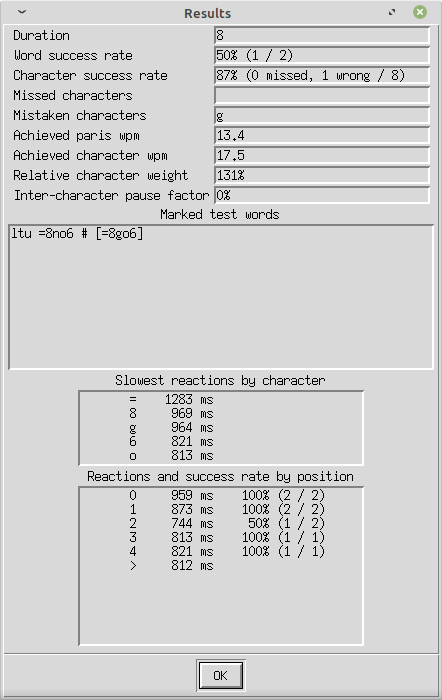
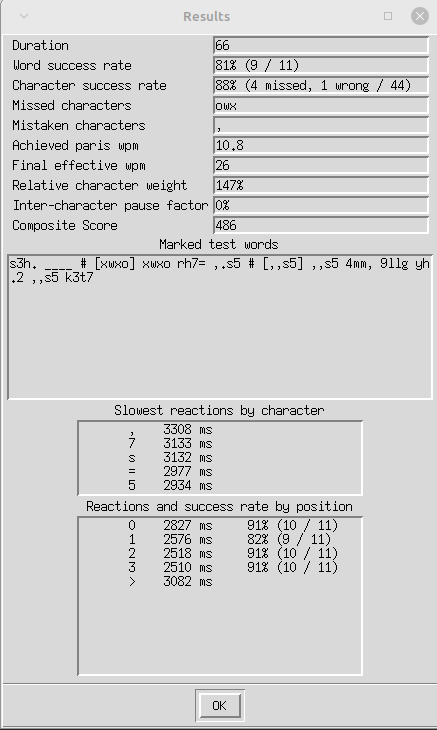
Update articles

Changed region(s): [[0.0, 0.0, 1.0, 1.0]]

diff --git a/content/articles_morsepractice.html b/content/articles_morsepractice.html
@@ -1,122 +1,123 @@
+<h1>Morse Practice Application</h1>
 
-	<h1>Morse Practice Application</h1>
+<p> This computer application has been created by Colin Berry (M0GXV) to help you to learn and improve your proficiency in receiving morse code (CW), by enabling you to create exercises to suit your level of expertise. This article explains how it works and how to profitably use it. </p>
 
-	<p> This computer application has been created by Colin Berry (M0GXV) to help you to learn and improve your proficiency in receiving morse code (CW), by enabling you to create exercises to suit your level of expertise. This article explains how it works and how to profitably use it. </p>
+<p> The program is written in perl, which natively runs on Linux and also works on Windows using a suitable implementation, such as "Strawberry Perl". The following perl modules are used, which may need to be installed:
 
-	<p> The program is written in perl, which natively runs on Linux and also works on Windows using a suitable implementation, such as "Strawberry Perl". The following perl modules are used, which may need to be installed:
+<ul>	<li>Tk</li>
+<li>Audio::Data</li>
+<li>Audio::Play</li>
+<li>Time::HiRes</li>
+<li>IO::Handle</li>
+</ul></p>
 
-	<ul>	<li>Tk</li>
-		<li>Audio::Data</li>
-		<li>Audio::Play</li>
-		<li>Time::HiRes</li>
-		<li>IO::Handle</li>
-	</ul></p>
+<p> The application can be downloaded from my <a href="https://github.com/BerryliumProjects/morsepractice.git" target="_blank">BerryliumProjects github repository</a>. If you are a git user, then feel free to amend the program however you want, and possibly even feed back improvements. Otherwise you can download a zip of the files (they are all in a single location) and unpack that locally.  Open the installation directory in a shell and type <pre>perl morsedlg.pl</pre> to run it. </p>
 
-	<p> The application can be downloaded from my <a href="https://github.com/BerryliumProjects/morsepractice.git" target="_blank">BerryliumProjects github repository</a>. If you are a git user, then feel free to amend the program however you want, and possibly even feed back improvements. Otherwise you can download a zip of the files (they are all in a single location) and unpack that locally.  Open the installation directory in a shell and type <pre>perl morsedlg.pl</pre> to run it. </p>
-
-	<p> There is a main dialog, in which you select audio parameters and select a type of exercise, separate dialogs for each exercise type, and a final results window with an analysis of how you performed, both in terms of accuracy and speed of response. In addition, the terminal shell from which perl is launched shows response time analysis detail, and is used in the "visual mental word building" exercise. The main dialog has a set of default settings which you can alter as required. These affect the type of exercise, what words or characters will be included, and how the audio is generated. </p>
+<p> There is a main dialog, in which you select audio parameters and select a type of exercise, separate dialogs for each exercise type, and a final results window with an analysis of how you performed, both in terms of accuracy and speed of response. In addition, the terminal shell from which perl is launched shows response time analysis detail, and is used in the "visual mental word building" exercise. The main dialog has a set of default settings which you can alter as required. These affect the type of exercise, what words or characters will be included, and how the audio is generated. </p>
 <table>
 <tr><td>
-	<h2>Main Dialog</h2>
-   <img src="articles_mp_main.png" class="insetpics" />
+<h2>Main Dialog</h2>
+<img src="articles_mp_main.png" class="insetpics" />
 
-   <p> The first screen you will see allows you to select a type of exercise, and to control how the sound of morse code is created. Various parameters can be set to provide a comfortable listening experience, at a speed to suit you. There are also a couple of features to make differentiating between dits and dahs easier as a beginner. </p>
+<p> The first screen you will see allows you to select a type of exercise, and to control how the sound of morse code is created. Various parameters can be set to provide a comfortable listening experience, at a speed to suit you. There are also a couple of features to make differentiating between dits and dahs easier as a beginner. </p>
 
-	<h3>Keying rate and weight</h3>
-	
-	<p><b>Character WPM</b> determines the fundamental pulse used to time the sounds and gaps between them within a character. This uses the 'PARIS' standard of 50 pulses per average word, including the standard gap following it. This results in a pulse time (length of a dit sound) of (1200 / WPM) milliseconds.</p>
+<h3>Keying rate and weight</h3>
 
-	<p>Note that this is always used irrespective of how words are constructed, even if a natural letter frequency distribution isn't being used. If you wish to use the alternative 'CODEX' timing standard designed for randomly selected letters (60 pulses per average word), increase the <b>Character WPM</b> and <b>Effective WPM</b> by a factor of 1.2.</p>
+<p><b>Character WPM</b> determines the fundamental pulse used to time the sounds and gaps between them within a character. This uses the 'PARIS' standard of 50 pulses per average word, including the standard gap following it. This results in a pulse time (length of a dit sound) of (1200 / WPM) milliseconds.</p>
 
-	<p><b>Dash weight</b> allows the dah sound to be adjusted to be longer or shorter than the standard 3 pulses. It can be fractional. A longer dah sound is easier to differentiate from a dit, and a slightly shorter sound can be used to practice receiving morse sent from a straight-key, where the element lengths can be quite variable and not to the standard timings created by a paddle and keyer.  Alternatively, a longer dah sound mimics how many semi-automatic bug keys often sound. Note that this adjustment will alter the effective communications speed.</p>
-	
-	<h3>Farnsworth and word spacing</h3>
-	
-	<p>When learning to copy at slower speeds, it is recommended to keep the sound of the characters short enough to be recognised as a whole pattern, rather than having to be mentally assembled from dits and dahs. This is achieved by reducing the <b>Effective WPM</b> to below the <b>Character WPM</b>, which increasing the gaps between characters and words. Start out with a <b>Character WPM</b> between 15 and 20, then gradually increase the <b>Effective WPM</b> up to the same speed. </p>
+<p>Note that this is always used irrespective of how words are constructed, even if a natural letter frequency distribution isn't being used. If you wish to use the alternative 'CODEX' timing standard designed for randomly selected letters (60 pulses per average word), increase the <b>Character WPM</b> and <b>Effective WPM</b> by a factor of 1.2.</p>
 
-	<p>The thinking time between characters reduces noticeably as the two speeds converge. Whilst you should aim to become comfortable with the speeds being equal (which results in standard rhythm), an alternative strategy is to increase the <b>Character WPM</b> further, which provides a slight increase in thinking time and trains the ear to recognise the patterns more instinctively.</p>
+<p><b>Dash weight</b> allows the dah sound to be adjusted to be longer or shorter than the standard 3 pulses. It can be fractional. A longer dah sound is easier to differentiate from a dit, and a slightly shorter sound can be used to practice receiving morse sent from a straight-key, where the element lengths can be quite variable and not to the standard timings created by a paddle and keyer.  Alternatively, a longer dah sound mimics how many semi-automatic bug keys often sound. Note that this adjustment will alter the effective communications speed.</p>
 
-	<p>When training without the <b>Sync after each word</b> mode, it can be useful to increase the gap between words for more thinking or typing time, while maintaining proper gaps between characters. Standard timing uses the equivalent of a silent dah or two dits between words, in addition to the inter-character gap. To increase this, specify a positive whole number in <b>Extra word spaces</b>. This adds further silent dahs (4 pulses each). </p>
+<h3>Farnsworth and word spacing</h3>
 
-	<h3>Pitch and volume</h3>
+<p>When learning to copy at slower speeds, it is recommended to keep the sound of the characters short enough to be recognised as a whole pattern, rather than having to be mentally assembled from dits and dahs. This is achieved by reducing the <b>Effective WPM</b> to below the <b>Character WPM</b>, which increasing the gaps between characters and words. Start out with a <b>Character WPM</b> between 15 and 20, then gradually increase the <b>Effective WPM</b> up to the same speed. </p>
 
-	<p>By default, a pitch of 600 Hz is used, but this can be adjusted, perhaps to match your preferred sidetone setting on a transceiver, using <b>Note pitch</b> in Hz. Listening at lower pitches can also help differentiate between closely spaced signals on-air, although very fast code may need a higher pitch. </p>
-	
-	<p> If you initially find it difficult to differentiate between dits and dahs, it is possible to make them sound at slightly different pitches. A positive number in <b>Dash-dot pitch shift</b> will cause dits to sound that number of semitones higher in pitch than dahs, keeping the average pitch the same. Try to eliminate this shift as soon as you can, so you don't become dependent on it. As the speed increases, the shifts can sound quite wild and distracting. </p>
+<p>The thinking time between characters reduces noticeably as the two speeds converge. Whilst you should aim to become comfortable with the speeds being equal (which results in standard rhythm), an alternative strategy is to increase the <b>Character WPM</b> further, which provides a slight increase in thinking time and trains the ear to recognise the patterns more instinctively.</p>
 
-	<p> The volume of note emitted can also be adjusted. <b>Tone volume attenuation</b> reduces the volume by that number of decibels. It is recommended to increase this number until the note is quiet while remaining clearly audible. This discipline also helps to naturally reduce the perception of background noise when listening on-air. If you do this, note that shorter pulse times need more volume to be perceived accurately. </p>
+<p>When training without the <b>Sync after each word</b> mode, it can be useful to increase the gap between words for more thinking or typing time, while maintaining proper gaps between characters. Standard timing uses the equivalent of a silent dah or two dits between words, in addition to the inter-character gap. To increase this, specify a positive whole number in <b>Extra word spaces</b>. This adds further silent dahs (4 pulses each). </p>
 
-  	<p> Having selected the desired audio parameters, click <b>Calibrate</b> to verify them. This will play "PARIS PARIS" at the selected pitch and WPM.</p>
+<h3>Pitch and volume</h3>
 
-   <p> If the program is being run in a virtual machine, it is possible that this could affect the rate of playing sound samples, resulting in the wrong pitch and WPM rates. To detect if this is occurring, try calibrating on a pitch of 440 Hz. If the A note pitch is incorrect (or less reliably, the time between the two words), you can enter a correction rate in <b>Playing rate factor</b>, which will also fix playing speed.</p>
+<p>By default, a pitch of 600 Hz is used, but this can be adjusted, perhaps to match your preferred sidetone setting on a transceiver, using <b>Note pitch</b> in Hz. Listening at lower pitches can also help differentiate between closely spaced signals on-air, although very fast code may need a higher pitch. </p>
+
+<p> If you initially find it difficult to differentiate between dits and dahs, it is possible to make them sound at slightly different pitches. A positive number in <b>Dash-dot pitch shift</b> will cause dits to sound that number of semitones higher in pitch than dahs, keeping the average pitch the same. Try to eliminate this shift as soon as you can, so you don't become dependent on it. As the speed increases, the shifts can sound quite wild and distracting. </p>
+
+<p> The volume of note emitted can also be adjusted. <b>Tone volume attenuation</b> reduces the volume by that number of decibels. It is recommended to increase this number until the note is quiet while remaining clearly audible. This discipline also helps to naturally reduce the perception of background noise when listening on-air. If you do this, note that shorter pulse times need more volume to be perceived accurately. </p>
+
+<p> Having selected the desired audio parameters, click <b>Calibrate</b> to verify them. This will play "PARIS PARIS" at the selected pitch and WPM.</p>
+
+<p> If the program is being run in a virtual machine, it is possible that this could affect the rate of playing sound samples, resulting in the wrong pitch and WPM rates. To detect if this is occurring, try calibrating on a pitch of 440 Hz. If the A note pitch is incorrect (or less reliably, the time between the two words), you can enter a correction rate in <b>Playing rate factor</b>, which will also fix playing speed.</p>
 
 </td></tr>
 <tr><td>
 
-	<h2>Types of exercise </h2>
-   <img src="articles_mp_exercise.png" class="insetpics" />
+<h2>Types of exercise </h2>
+<img src="articles_mp_exercise.png" class="insetpics" />
 
-	<p> Substituting artificial exercises for real-world CW copying carries the risk that the mind learns to be good at the exercise rather than the skill that it is intended to develop. For example, I found that listening and typing in what I heard, created a shortcut between my ears and my fingers which bypassed my consciousness - so didn't move me forward to my aim of improving head-copy.  So it's important to vary the types of exercises to avoid this.</p>
+<p> Substituting artificial exercises for real-world CW copying carries the risk that the mind learns to be good at the exercise rather than the skill that it is intended to develop. For example, I found that listening and typing in what I heard, created a shortcut between my ears and my fingers which bypassed my consciousness - so didn't move me forward to my aim of improving head-copy.  So it's important to vary the types of exercises to avoid this.</p>
 
-	<p> A computer generated exercise can also be just too "perfect", in the sense that doesn't reflect on-air listening, with noise, fading, distraction from other signals, variations in timing and of course human error. Computerised morse readers can also struggle in these conditions, yet it is possible with practice and experience for the human ear and mind to do better. To achieve this, it is also important to expose yourself to real on-air listening, both at a speed you can mostly understand and also in conditions where you struggle. This experience will inform what sort of exercises would be of benefit. </p>
+<p> A computer generated exercise can also be just too "perfect", in the sense that doesn't reflect on-air listening, with noise, fading, distraction from other signals, variations in timing and of course human error. Computerised morse readers can also struggle in these conditions, yet it is possible with practice and experience for the human ear and mind to do better. To achieve this, it is also important to expose yourself to real on-air listening, both at a speed you can mostly understand and also in conditions where you struggle. This experience will inform what sort of exercises would be of benefit. </p>
 
-   <p> Each type of exercise has options appropriate to it. These are explained later. </p>
+<p> Each type of exercise has options appropriate to it. These are explained later. </p>
 
-	<h3>Single characters</h3>
+<h3>Single characters</h3>
 
-	<p> This exercise can be used in several ways. If you have no knowledge of morse code at all, type some characters into the entry box and click <b>Play</b>. Listen to how they sound, separately and in combination. This is a great way to start to learn the code as sound patterns first rather than printed dashes and dots. </p>
+<p> This exercise can be used in several ways. If you have no knowledge of morse code at all, type some characters into the entry box and click <b>Play</b>. Listen to how they sound, separately and in combination. This is a great way to start to learn the code as sound patterns first rather than printed dashes and dots. </p>
 
-	<p> To systematically learn to use morse code, you could select some characters in the  <b>Characters to practise</b> list, having selected a low effective wpm in the audio dialog (the "Farnsworth method" of learning). If you want to learn following the classic "Koch method", you can get an introduction to the character set being used by entering a positive number in <b>Koch method level</b>, which can be used as a prelude to the random sequences exercise. </p> 
+<p> To systematically learn to use morse code, you could select some characters in the  <b>Characters to practise</b> list, having selected a low effective wpm in the audio dialog (the "Farnsworth method" of learning). If you want to learn following the classic "Koch method", you can get an introduction to the character set being used by entering a positive number in <b>Koch method level</b>, which can be used as a prelude to the random sequences exercise. </p> 
 
-   <p> If you enter a character incorrectly, it will repeat the same character one more time.</p>
+<p> If you enter a character incorrectly, it will repeat the same character one more time.</p>
 
-	<h3>Random sequences</h3>
+<h3>Random sequences</h3>
 
-   <p> This is similar to the Single Characters mode, but characters are grouped with proper spacing between them, with a pause at the end for you to type back what you heard. </p>
+<p> This is similar to the Single Characters mode, but characters are grouped with proper spacing between them, with a pause at the end for you to type back what you heard. </p>
 
-	<p> If you want characters to reflect their frequency in English, select <b>Use relative frequencies</b>. In Koch mode, this instead puts more emphasis on the most recently learned characters. You can see the effect of this in the <b>Extra character weights</b> field, which can also be adjusted directly. </p>
+<p> If you want characters to reflect their frequency in English, select <b>Use relative frequencies</b>. In Koch mode, this instead puts more emphasis on the most recently learned characters. You can see the effect of this in the <b>Extra character weights</b> field, which can also be adjusted directly. </p>
 
-	<p> Although you can type as soon as you recognise a character pattern, I recommend not starting to type until the end of the 2nd character, to give proper processing time and to practice hearing, thinking and typing concurrently rather than sequentially - you won't have time to do that beyond an unrealistically slow speed. </p>
+<p> Although you can type as soon as you recognise a character pattern, I recommend not starting to type until the end of the 2nd character, to give proper processing time and to practice hearing, thinking and typing concurrently rather than sequentially - you won't have time to do that beyond an unrealistically slow speed. </p>
 
-	<p> As well as random characters, other exercise types apply structure to the sequences, which helps with recognising and remembering patterns within words, enabling longer words to be mentally assembled. </p>
+<p> As well as random characters, other exercise types apply structure to the sequences, which helps with recognising and remembering patterns within words, enabling longer words to be mentally assembled. </p>
 
-	<h3>Phonemes</h3>
+<h3>Phonemes</h3>
 
-	<p> Each collection of vowel letters making up a valid vowel sound (for example 'ea'), and each combination of consonant letters making up a valid consonant or group (for example 'str') is referred to as a phoneme, an elementary component of speech. </p>
+<p> Each collection of vowel letters making up a valid vowel sound (for example 'ea'), and each combination of consonant letters making up a valid consonant or group (for example 'str') is referred to as a phoneme, an elementary component of speech. </p>
 
-	<p>The common phonemes can be recognised as sub-sequences within a word when copying morse code, and this makes mentally building up the word easier. This exercise practices them in isolation; the Pseudo Words exercise groups them.  </p>
+<p>The common phonemes can be recognised as sub-sequences within a word when copying morse code, and this makes mentally building up the word easier. This exercise practices them in isolation; the Pseudo Words exercise groups them.  </p>
 
-   <h3>Pseudo Words</h3>
+<h3>Pseudo Words</h3>
 
-	<p> English words are mostly composed by alternating vowel phonemes with consonant phonemes, for example sch-oo-l. When first moving from random character recognition to words, ideas with a recognisable meaning tend to distract from keeping up, as the mind wants to visualise the word's meaning. The excitement and sense of achievement at recognising a word can also make you lose flow.  As an aid to avoiding such distraction, it can be helpful to create sequences which follow the expected phoneme-alternation pattern, but which aren't meaningful words. This helps the mind to stop trying to look for meaning, as none is expected, yet the skill of phoneme recognition is still being developed. </p>
+<p> English words are mostly composed by alternating vowel phonemes with consonant phonemes, for example sch-oo-l. When first moving from random character recognition to words, ideas with a recognisable meaning tend to distract from keeping up, as the mind wants to visualise the word's meaning. The excitement and sense of achievement at recognising a word can also make you lose flow.  As an aid to avoiding such distraction, it can be helpful to create sequences which follow the expected phoneme-alternation pattern, but which aren't meaningful words. This helps the mind to stop trying to look for meaning, as none is expected, yet the skill of phoneme recognition is still being developed. </p>
 
-	<p> Pseudo-words can start with either a vowel or consonant element. Each element is categorised as to whether it can meaningfully appear at the beginning, middle or end of a word, to make the compositions seem more realistic.</p>
+<p> Pseudo-words can start with either a vowel or consonant element. Each element is categorised as to whether it can meaningfully appear at the beginning, middle or end of a word, to make the compositions seem more realistic.</p>
 
-	<p> Caution: artificially invented pseudo-words are not checked to ensure they are (or sound) meaningless. It is possible to get sequences which resemble dictionary words (even rude ones!), but this is simply due to randomness. The same coincidence can of course occur with purely random letter sequences, but the likelihood is much less. </p>
+<p> Caution: artificially invented pseudo-words are not checked to ensure they are (or sound) meaningless. It is possible to get sequences which resemble dictionary words (even rude ones!), but this is simply due to randomness. The same coincidence can of course occur with purely random letter sequences, but the likelihood is much less. </p>
 
-	<h3>Numbers</h3>
+<h3>Numbers</h3>
 
-   <p> This is similar to the random sequences exercise, but the group of characters relates to how numbers are represented. Note that it is common to use "R" to mean a decimal point (it sounds like an abbreviation of the longer full stop character). </p>
+<p> This is similar to the random sequences exercise, but the group of characters relates to how numbers are represented. Note that it is common to use "R" to mean a decimal point (it sounds like an abbreviation of the longer full stop character). </p>
 
-	<h3>Callsigns</h3>
+<h3>Callsigns</h3>
 
-	<p> A very useful skill is copying down callsigns. Their specific structure helps with memory, and also they are sent frequently so that they can be copied in stages (first 3 characters, then last 3 on the next repetition). </p>
+<p> A very useful skill is copying down callsigns. Their specific structure helps with memory, and also they are sent frequently so that they can be copied in stages (first 3 characters, then last 3 on the next repetition). </p>
 
-	<p> The simplest exercise does not include the '/' character and restricts the prefix to a list of common european ones. Options enable more complex possibilities. </p>
+<p> The simplest exercise does not include the '/' character and restricts the prefix to a list of common european ones. Options enable more complex possibilities. </p>
 
- 	<h3>Common words</h3>
-	
-	<p> This is an alternative to choosing words from the main dictionary.  The 100 most common English words, irrespective of length, are included (the longest is 7 characters - 'because'). You can also filter these using <b>Min word length</b> and <b>Max word length</b>. This exercise is good for helping develop natural rag-chew type interaction.</p>
+<h3>Common words</h3>
 
-	<p> Quite a few of these words have established abbreviations (such as fer, cud and es), which you can practice in the QSO terms exercise. </p>
+<p> This is an alternative to choosing words from the main dictionary.  The 100 most common English words, irrespective of length, are included (the longest is 7 characters - 'because'). You can also filter these using <b>Min word length</b> and <b>Max word length</b>. This exercise is good for helping develop natural rag-chew type interaction.</p>
 
-   <h3>Dictionary words</h3>
+<p> Quite a few of these words have established abbreviations (such as fer, cud and es), which you can practice in the QSO terms exercise. </p>
 
-	<p> This enables you to practice assembling real words with identifiable meanings. Over 4000 words are possible, but most of them are quite long and so more difficult to assemble. There are two approaches to make this exercise more achievable for a beginner. You can choose the minimum and maximum word lengths (defaults are 1 to 6); and you can also optionally restrict to studying the overall sound of a small selection of words of similar difficulty.</p>
+<h3>Dictionary words</h3>
 
-	<p> Both of these criteria are applied when selecting words. You can set the maximum length you are comfortable with - you will forget the first part of the word beyond a certain length, which you can practise to increase over time. You can also set the minimum length if you wish, but it is best to avoid setting it the same as the maximum - you will very quickly adapt to expecting a certain number of characters and will mentally pace yourself. Real language doesn't work like that! </p>
+<p> This enables you to practice assembling real words with identifiable meanings. Over 4000 words are possible, but most of them are quite long and so more difficult to assemble. There are two approaches to make this exercise more achievable for a beginner. You can choose the minimum and maximum word lengths (defaults are 1 to 6); and you can also optionally restrict to studying the overall sound of a small selection of words of similar difficulty.</p>
 
-	<p> To focus on a small set of words to learn their sounds by repetition, first specify a positive index number in <b>Dictionary sample offset</b> and the possible number of alternative words in <b>Dictionary sample size</b>. The dictionary is sequenced in order of increasing difficulty, which I have defined as firstly number of characters, then number of morse code elements (dits and dahs). So for example 'we' is before 'up' (longer morse pattern) which is before 'tea' (longer word even though less elements). Therefore you should leave the word length range unconstrained for this exercise. </p>
+<p> Both of these criteria are applied when selecting words. You can set the maximum length you are comfortable with - you will forget the first part of the word beyond a certain length, which you can practise to increase over time. You can also set the minimum length if you wish, but it is best to avoid setting it the same as the maximum - you will very quickly adapt to expecting a certain number of characters and will mentally pace yourself. Real language doesn't work like that! </p>
+
+<p> To focus on a small set of words to learn their sounds by repetition, first specify a positive index number in <b>Dictionary sample offset</b> and the possible number of alternative words in <b>Dictionary sample size</b>. The dictionary is sequenced in order of increasing difficulty, which I have defined as firstly number of characters, then number of morse code elements (dits and dahs). So for example 'we' is before 'up' (longer morse pattern) which is before 'tea' (longer word even though less elements). Therefore you should leave the word length range unconstrained for this exercise. </p>
+
+<p> If you are having difficulty recognising certain letters quickly enough, you can focus the selection of words on those which contain at least one of the characters in <b>Include characters</b>.</p>
 
 	<h3>QSO terms</h3>
 
@@ -204,7 +205,7 @@
 
    <h3> Retry mistakes </h3>
   
-   <p> This option repeats a word entered incorrectly one more time, to give a second chance to recognise it correctly. It is not compatible with a free-running exercise mode and will disable that. Disable this if you want to practice recognising a word mentally ("head copy") without typing it back in, but still want to allow yourself as much time as needed. In this case, just press Space to proceed, and ignore the statistics report</p>
+   <p> This option repeats a word entered incorrectly one more time, to give a second chance to recognise it correctly. It will be disabled in the free-running exercise mode. Disable this if you want to practice recognising a word mentally ("head copy") without typing it back in, but still want to allow yourself as much time as needed; or if are copying on paper rather than typing. In this case, just press Space to proceed.</p>
 
    <h3> Minimum and maximum word lengths </h3>
 
@@ -212,13 +213,17 @@
 
    <h3> Sync after each word </h3>
 
-   <p> This option causes an exercise initiated by the Start button to pause after each word, rather than be free-running. It will cause the two measures of achieved speed to diverge, as one relates to accuracy and the other to quantity. Whilst providing immediate feedback of correctness, you need to disable it to practice the automatic and integrated mental processes of concurrently listening, decoding and recording, and to learn to "let go and keep up" when you stumble or get distracted. </p> 
+   <p> This option causes an exercise initiated by the Start button to pause after each word, rather than be free-running. As this introduces extra delays between words, the <b>Paris WPM</b> statistic will reduce. Whilst providing immediate feedback of correctness, you can disable this option to practice the automatic and integrated mental processes of concurrently listening, decoding and recording, and to learn to "let go and keep up" when you stumble or get distracted. </p> 
 
 	<p> In real life, the sender doesn't wait for each word to be recognised and recorded before moving on, although if very understanding, may leave extra time between words, which you can also simulate with extra word spaces. In this case, you could try to wait until the next word starts before typing the previous one, to practice overlapping those activities. </p>
 
 	<p> A key skill here is to stay calm and be prepared to let go of characters if it would otherwise mean getting behind the natural flow. Trying to finish the previous word will result in missing the start of the next word. The start of words carries more meaning than the ends in English, and the word sense will be lost if the start is missing. It is also more difficult to pick up in the middle of a word. </p>
 
-	<p> You may notice that the sending speed appears to get quicker after a while. This is an illusion caused by your brain slowing down.  If you carry on, it seems to adapt to the demands of concentration and the effect passes. </p>
+   <h3>Auto-increment speed </h3>
+
+   <p> This is only available if <b>Sync after each word</b> is also selected. It adjusts the morse playing speed by one word per minute after each input, depending on whether you copied correctly.  If the effective WPM is less than the character WPM then this changes the effective WPM up or down while keeping the character WPM constant. Once effective WPM becomes the same as character WPM, it changes behaviour to adjust both up or down. </p> 
+
+	<p> Even if this option is not selected, you may notice that the sending speed appears to get quicker after a while. This is an illusion caused by your brain slowing down.  If you carry on, it seems to adapt to the demands of concentration and the effect may reduce. </p>
 
    <h3> Allow backspace </h3>
 
@@ -268,11 +273,13 @@
 
 	<p> <b>Achieved paris wpm</b> is an indication of how much information is being processed successfully, based on the number of pulses in the words played. Longer pauses between words, as well as typing time if waiting for each word to be input, will reduce this statistic.</p>
 
-	<p> <b>Achieved character wpm</b> is an alternative indication of attained speed, based on how accurately characters are being copied, at the effective wpm specified. It is not affected by typing time if waiting for each word to be entered, and also not affected by character length; so is likely to be an overstatement of capability. </p>
+	<p> <b>Final effective wpm</b> shows how fast morse was being played by the end of the exercise. This is meaningful if <b>Auto-increment speed</b> is selected, as this increases the effective wpm on successful inputs. </p>
 
 	<p> <b>Relative character weight</b> shows the actual average character length (in pulses) compared to that assumed in the PARIS standard. Random characters including punctuation and numbers will result in a factor over 100%. It is difficult to copy very short characters (E being the hardest) as thinking and typing speed is unlikely to keep up,  but also hard to recognise very long sequences such as punctuation. Suitable exercises of both these extremes are useful.</p>
 
 	<p> <b>Inter-character pause factor</b> shows how much inter-character gaps are longer than the standard.  Having an effective wpm lower than character wpm will give a positive value here. </p>
+
+   <p> <b>Composite score</b> is a subjective indication of how well you did in the this exercise run, and takes account of final achieved effective WPM, average word length, and accuracy. If you have attempted the same type of exercise more than once in a row, a personal best score for the exercise sequence is also shown. This is reset after changing the exercise type but not if you only adjust parameters. </p> 
 
 	<p> <b>Marked test words </b> shows the details of what you entered compared to what was played. Incorrect words will be marked with a # and the correct word shown. Look for any patterns you can work on.  Be aware that alignment of words and characters may fail unless errors are spaced well apart. </p>
 
@@ -314,3 +321,4 @@
 
 </tr></td>
 </table>
+